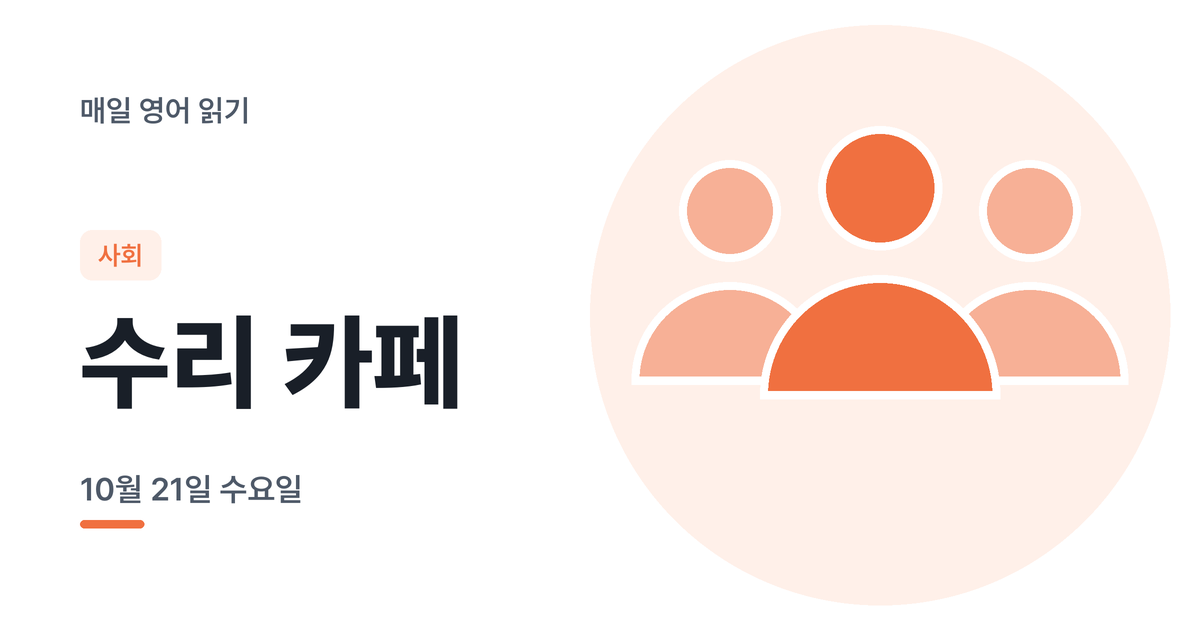
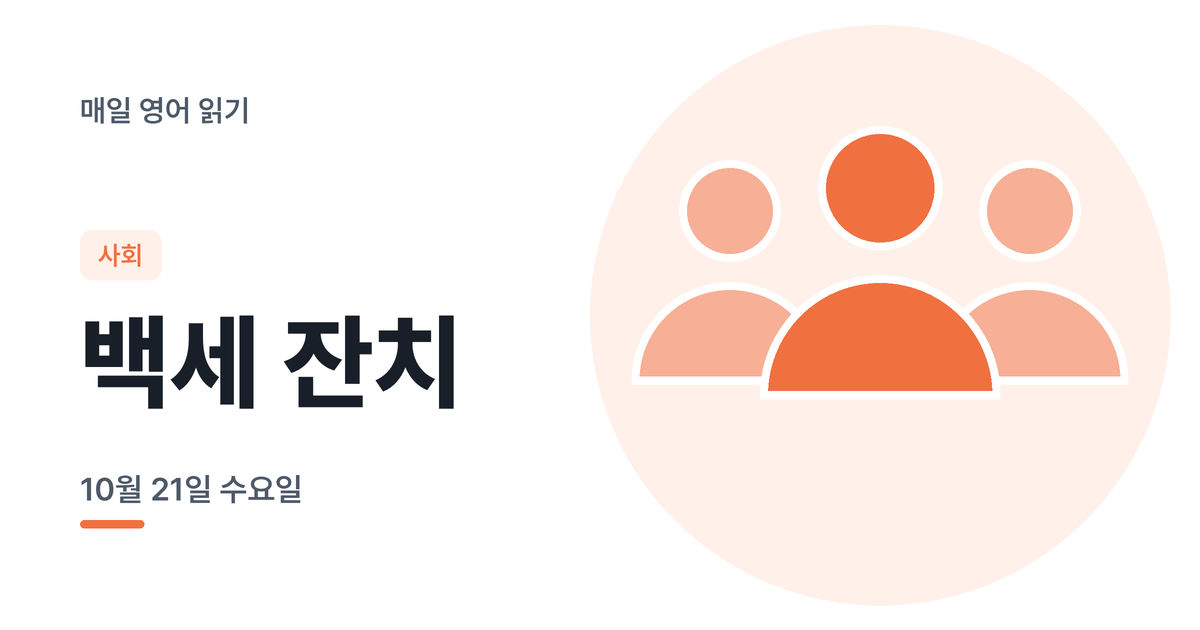
Publish en:2026-10-21

Changed region(s): [[0.0617, 0.4825, 0.4008, 0.6635]]

diff --git a/en/2026-10-21/index.html b/en/2026-10-21/index.html
@@ -9,7 +9,7 @@
 <meta name="description" content="B1~B2 학습자를 위한 하루 한 단락 영어 읽기. 문장별 음성, 주요 단어, 모범 해석.">
 <meta property="og:type" content="article">
 <meta property="og:site_name" content="매일 영어 읽기">
-<meta property="og:title" content="오늘은 수리 카페 이야기예요 | 매일 영어 읽기">
+<meta property="og:title" content="오늘은 백세 잔치 이야기예요 | 매일 영어 읽기">
 <meta property="og:description" content="B1~B2 학습자를 위한 하루 한 단락 영어 읽기. 문장별 음성, 주요 단어, 모범 해석.">
 <meta property="og:url" content="https://read.wspace.ai.kr/en/2026-10-21/">
 <meta property="og:image" content="https://read.wspace.ai.kr/en/2026-10-21/thumb.png">
@@ -176,7 +176,7 @@
   <div class="top">
     <img class="thumb" src="thumb.png" width="76" height="76" alt="">
     <div class="date">10월 21일 수요일</div>
-    <h1>오늘은 <em>수리 카페</em> 이야기예요</h1>
+    <h1>오늘은 <em>백세 잔치</em> 이야기예요</h1>
     <div class="chips">
       <span class="chip blue">6문장</span>
       <span class="chip">B1 위주</span>
@@ -195,14 +195,14 @@
       <button class="tool" id="copy" type="button"><svg viewBox="0 0 20 20" fill="none" stroke="currentColor" stroke-width="1.8" stroke-linecap="round" stroke-linejoin="round"><rect x="7" y="7" width="9.5" height="9.5" rx="2"/><path d="M4.5 13V5.5a2 2 0 0 1 2-2H13"/></svg><span>지문 복사</span></button>
       <button class="tool" id="kobtn" type="button" aria-pressed="false">해석 보기</button>
     </div>
-    <div class="sent"><button class="no" type="button" data-i="0" aria-label="1번 문장 듣기">1</button><div class="say"><div class="en">On Saturday morning, people in Charleston carried <b>broken</b> lamps, stopped clocks, and noisy fans into one busy room.</div><div class="ko" hidden>토요일 아침, 찰스턴 사람들이 고장 난 램프, 멈춘 시계, 시끄러운 선풍기를 들고 북적이는 한 방으로 들어왔다.</div></div></div>
-    <div class="sent"><button class="no" type="button" data-i="1" aria-label="2번 문장 듣기">2</button><div class="say"><div class="en">They had come to the city's first Repair Cafe, where <b>volunteers</b> fix everyday things for free.</div><div class="ko" hidden>그들은 그 도시의 첫 번째 수리 카페에 온 것이었는데, 그곳에서는 자원봉사자들이 일상 물건을 무료로 고쳐 준다.</div></div></div>
-    <div class="sent"><button class="no" type="button" data-i="2" aria-label="3번 문장 듣기">3</button><div class="say"><div class="en">The event was started by a <b>retired</b> architect, who got the idea from a <b>similar</b> cafe in another city.</div><div class="ko" hidden>이 행사는 한 은퇴한 건축가가 시작했는데, 그는 다른 도시의 비슷한 카페에서 이 아이디어를 얻었다.</div></div></div>
-    <div class="sent"><button class="no" type="button" data-i="3" aria-label="4번 문장 듣기">4</button><div class="say"><div class="en">One woman's fan, which she needs to sleep at night, was fixed in about ten minutes.</div><div class="ko" hidden>밤에 잠을 자려면 필요한 한 여성의 선풍기는 약 10분 만에 고쳐졌다.</div></div></div>
-    <div class="sent"><button class="no" type="button" data-i="4" aria-label="5번 문장 듣기">5</button><div class="say"><div class="en">A robot vacuum that someone had bought at a yard sale for twenty dollars was brought back to life, and the organizer said it is now <b>worth</b> about nine hundred dollars.<span class="badge">B2</span></div><div class="ko" hidden>누군가 중고 물품 판매(야드 세일)에서 20달러에 산 로봇 청소기가 다시 살아났고, 주최자는 그것이 이제 약 900달러의 가치가 있다고 말했다.</div></div></div>
-    <div class="sent"><button class="no" type="button" data-i="5" aria-label="6번 문장 듣기">6</button><div class="say"><div class="en">By the end of the day, more than sixty items had been <b>repaired</b>, and the group plans to hold the event every other month to <b>reduce</b> waste and help people save money.</div><div class="ko" hidden>그날이 끝날 무렵까지 60개가 넘는 물건이 수리되었고, 그 모임은 쓰레기를 줄이고 사람들이 돈을 아끼도록 돕기 위해 두 달에 한 번 이 행사를 열 계획이다.</div></div></div>
+    <div class="sent"><button class="no" type="button" data-i="0" aria-label="1번 문장 듣기">1</button><div class="say"><div class="en">On Monday afternoon, the senior center in the town of Brookline held a <b>special</b> party called the "Party of a Century."</div><div class="ko" hidden>월요일 오후, 브루클라인이라는 마을의 노인 센터가 '한 세기 파티'라는 특별한 파티를 열었다.</div></div></div>
+    <div class="sent"><button class="no" type="button" data-i="1" aria-label="2번 문장 듣기">2</button><div class="say"><div class="en">The event program named twenty-seven <b>residents</b> who are one hundred or older, although many of them were not able to come.</div><div class="ko" hidden>행사 안내문에는 100세 이상인 주민 27명의 이름이 실려 있었지만, 그중 많은 분은 올 수 없었다.</div></div></div>
+    <div class="sent"><button class="no" type="button" data-i="2" aria-label="3번 문장 듣기">3</button><div class="say"><div class="en">The five who did come each received a <b>certificate</b>, and the whole room sang "Happy Birthday" to them.</div><div class="ko" hidden>실제로 온 다섯 분은 각자 증서를 받았고, 방 안의 모두가 그분들께 '생일 축하' 노래를 불러 드렸다.</div></div></div>
+    <div class="sent"><button class="no" type="button" data-i="3" aria-label="4번 문장 듣기">4</button><div class="say"><div class="en">The party brought back an old <b>tradition</b> from 1909, when a newspaper owner sent canes with gold tops to about seven hundred towns in New England so that each town could give one to its oldest man.<span class="badge">B2</span></div><div class="ko" hidden>이 파티는 1909년의 오래된 전통을 되살린 것인데, 그해 한 신문사 사주가 뉴잉글랜드의 약 700개 마을에 금빛 손잡이가 달린 지팡이를 보내 각 마을이 가장 나이 많은 남성에게 하나씩 줄 수 있도록 했다.</div></div></div>
+    <div class="sent"><button class="no" type="button" data-i="4" aria-label="5번 문장 듣기">5</button><div class="say"><div class="en">Because the town has not yet found out who its oldest person is, a <b>copy</b> of the cane was passed from hand to hand among the guests.</div><div class="ko" hidden>마을이 아직 가장 나이 많은 사람이 누구인지 알아내지 못했기 때문에, 지팡이의 복제품이 손님들 사이에서 손에서 손으로 전해졌다.</div></div></div>
+    <div class="sent"><button class="no" type="button" data-i="5" aria-label="6번 문장 듣기">6</button><div class="say"><div class="en">Francis DiMento, who is 99 and still works on cases as a lawyer, shared some simple <b>advice</b>: look both ways even on one-way streets, and drink lots of milk.</div><div class="ko" hidden>99세이며 지금도 변호사로 사건을 맡고 있는 프랜시스 디멘토는 간단한 조언을 건넸다. 일방통행 길에서도 양쪽을 살피고, 우유를 많이 마시라는 것이었다.</div></div></div>
     <p class="hint"><span id="hinttext">문장 번호를 누르면 그 문장만 들려요. 해석은 먼저 읽어 본 다음에 켜 보세요.</span></p>
-    <p class="src">출처: <a href="https://www.live5news.com/2026/10/17/repair-cafe-holds-first-charleston-event-mission-given-broken-household-items-second-life/" target="_blank" rel="noopener">Repair Cafe holds first Charleston event on mission to give broken household items a second life (Live 5 News, 2026-10-17)</a></p>
+    <p class="src">출처: <a href="https://www.boston.com/community/events/2026/10/20/brookline-celebrates-its-centenarians-at-party-of-a-century/" target="_blank" rel="noopener">Brookline celebrates its centenarians at 'Party of a Century' (Boston.com, 2026-10-20)</a></p>
     <div class="mine">
       <label for="mine">내 해석</label>
       <textarea id="mine" placeholder="1. &#10;2. &#10;3. &#10;4. &#10;5. &#10;6. " spellcheck="false"></textarea>
@@ -214,25 +214,24 @@
   <section class="card">
     <div class="step" id="step-words">STEP 2</div>
     <h2>주요 단어</h2>
-    <div class="word"><span class="w">broken</span><span class="m">고장 난, 깨진</span></div>
-    <div class="word"><span class="w">volunteers</span><span class="m">자원봉사자들 (volunteer의 복수)</span></div>
-    <div class="word"><span class="w">retired</span><span class="m">은퇴한</span></div>
-    <div class="word"><span class="w">similar</span><span class="m">비슷한</span></div>
-    <div class="word"><span class="w">worth</span><span class="m">~의 가치가 있는</span></div>
-    <div class="word"><span class="w">repaired</span><span class="m">수리된 (repair의 과거분사)</span></div>
-    <div class="word"><span class="w">reduce</span><span class="m">줄이다</span></div>
+    <div class="word"><span class="w">special</span><span class="m">특별한</span></div>
+    <div class="word"><span class="w">residents</span><span class="m">주민들 (resident의 복수)</span></div>
+    <div class="word"><span class="w">certificate</span><span class="m">증서, 증명서</span></div>
+    <div class="word"><span class="w">tradition</span><span class="m">전통</span></div>
+    <div class="word"><span class="w">copy</span><span class="m">복제품, 사본</span></div>
+    <div class="word"><span class="w">advice</span><span class="m">조언 (셀 수 없는 명사라 -s를 붙이지 않음)</span></div>
   </section>
 
   <section class="card">
     <div class="step" id="step-points">STEP 3</div>
     <h2>오늘의 체크 포인트</h2>
     <div class="point">
-      <strong>수동태 뒤의 행위자와 시간</strong>
-      <p>3번 <code>was started by a retired architect</code>는 '은퇴한 건축가가 시작했다'예요. by 뒤가 실제로 한 사람입니다. 4번 <code>was fixed in about ten minutes</code>는 끝의 <code>in about ten minutes</code>(약 10분 만에)까지 읽어야 문장이 완성돼요. 6번 <code>By the end of the day</code>(그날이 끝날 무렵까지)와 <code>every other month</code>(두 달에 한 번)도 놓치지 마세요.</p>
+      <strong>although, because가 이끄는 절</strong>
+      <p>2번 <code>although many of them were not able to come</code>은 '그중 많은 분이 오지 못했지만'이에요. 앞의 27명이라는 숫자와 대조돼요. 5번은 <code>Because</code>로 시작하는 이유 부분이 먼저 나오고, 쉼표 뒤 <code>a copy of the cane was passed</code>가 실제로 일어난 일이에요. 이유와 결과를 나눠서 읽어 보세요.</p>
     </div>
     <div class="point">
-      <strong>숫자 크기 그려 보기</strong>
-      <p>5번은 <code>twenty dollars</code>(20달러)에 산 물건이 <code>nine hundred dollars</code>(900달러) 가치가 됐다는 대비예요. 두 숫자를 머릿속에 나란히 놓아 보세요. 6번 <code>more than sixty items</code>는 '60개가 넘는 물건'이에요. 여기서 more than은 '~보다 많은'이고, <code>items</code>의 복수 -s도 함께 챙기세요.</p>
+      <strong>when이 붙은 긴 B2 문장</strong>
+      <p>4번은 <code>an old tradition from 1909</code>까지 읽고 끊은 뒤, <code>when a newspaper owner sent ...</code>가 1909년에 있었던 일을 덧붙이는 구조로 보면 돼요. 끝의 <code>so that each town could give one to its oldest man</code>은 '각 마을이 가장 나이 많은 남성에게 하나씩 줄 수 있도록'이라는 목적이에요. <code>about seven hundred towns</code>(약 700개 마을)의 숫자도 챙기세요.</p>
     </div>
   </section>
 
@@ -249,20 +248,20 @@
       <svg viewBox="0 0 20 20" fill="none" stroke="currentColor" stroke-width="2" stroke-linecap="round" stroke-linejoin="round"><path d="M5 7.5l5 5 5-5"/></svg>
     </summary>
     <div class="body">
-      <div class="adv"><div class="w">inaugural</div><div class="m">첫 번째의, 개최 기념의</div>
-        <div class="ex">The group held its <b>inaugural</b> repair event on Saturday.</div></div>
-      <div class="adv"><div class="w">restore</div><div class="m">(원래 상태로) 되살리다, 복원하다</div>
-        <div class="ex">A volunteer <b>restored</b> the cheap robot vacuum to working order.</div></div>
-      <div class="adv"><div class="w">salvage</div><div class="m">(버려질 것을) 건져 내다, 살리다</div>
-        <div class="ex">The volunteers <b>salvaged</b> more than sixty items in one day.</div></div>
-      <div class="adv"><div class="w">discard</div><div class="m">버리다, 폐기하다<span class="warn">disregard(무시하다)와 혼동 주의</span></div>
-        <div class="ex">Many people <b>discard</b> broken lamps instead of fixing them.</div></div>
-      <div class="adv"><div class="w">appliance</div><div class="m">가전제품<span class="warn">application(신청, 앱)과 혼동 주의</span></div>
-        <div class="ex">Residents brought fans and other small <b>appliances</b> to the cafe.</div></div>
-      <div class="adv"><div class="w">landfill</div><div class="m">쓰레기 매립지</div>
-        <div class="ex">Repairing old things keeps them out of the <b>landfill</b>.</div></div>
-      <div class="adv"><div class="w">bimonthly</div><div class="m">두 달에 한 번의, 격월의<span class="warn">biweekly(2주에 한 번의)와 혼동 주의</span></div>
-        <div class="ex">The group plans to hold <b>bimonthly</b> events at the library.</div></div>
+      <div class="adv"><div class="w">centenarian</div><div class="m">100세 이상인 사람<span class="warn">centennial(100주년)과 혼동 주의</span></div>
+        <div class="ex">The town honored five <b>centenarians</b> at the party.</div></div>
+      <div class="adv"><div class="w">commemorate</div><div class="m">기념하다</div>
+        <div class="ex">The senior center held a party to <b>commemorate</b> a century of life.</div></div>
+      <div class="adv"><div class="w">revive</div><div class="m">되살리다, 부활시키다<span class="warn">review(검토하다)와 혼동 주의</span></div>
+        <div class="ex">The event <b>revived</b> a tradition that began in 1909.</div></div>
+      <div class="adv"><div class="w">replica</div><div class="m">복제품, 모형<span class="warn">reply(대답)와 혼동 주의</span></div>
+        <div class="ex">A <b>replica</b> of the gold-topped cane was passed around the room.</div></div>
+      <div class="adv"><div class="w">honoree</div><div class="m">(행사에서) 영예를 받는 사람</div>
+        <div class="ex">Each <b>honoree</b> who came received a certificate.</div></div>
+      <div class="adv"><div class="w">longevity</div><div class="m">장수, 오래 삶</div>
+        <div class="ex">The party celebrated the <b>longevity</b> of the town's oldest residents.</div></div>
+      <div class="adv"><div class="w">identify</div><div class="m">(누구인지) 확인하다, 알아내다</div>
+        <div class="ex">The town has not yet <b>identified</b> its oldest resident.</div></div>
     </div>
   </details>
   <section class="card sub" id="subscribe">

diff --git a/en/archive/index.html b/en/archive/index.html
@@ -75,7 +75,7 @@
   <section class="month">
     <h2>2026년 10월</h2>
     <div class="card">
-      <a class="item" href="../2026-10-21/" data-cat="society" data-q="수리 카페 사회 broken 고장 난, 깨진 volunteers 자원봉사자들 (volunteer의 복수) retired 은퇴한 similar 비슷한 worth ~의 가치가 있는 repaired 수리된 (repair의 과거분사) reduce 줄이다"><img src="../2026-10-21/thumb.png" width="56" height="56" alt="" loading="lazy"><span><span class="d">10월 21일 수요일<span class="c">사회</span></span><span class="t">수리 카페</span></span></a>
+      <a class="item" href="../2026-10-21/" data-cat="society" data-q="백세 잔치 사회 special 특별한 residents 주민들 (resident의 복수) certificate 증서, 증명서 tradition 전통 copy 복제품, 사본 advice 조언 (셀 수 없는 명사라 -s를 붙이지 않음)"><img src="../2026-10-21/thumb.png" width="56" height="56" alt="" loading="lazy"><span><span class="d">10월 21일 수요일<span class="c">사회</span></span><span class="t">백세 잔치</span></span></a>
       <a class="item" href="../2026-10-20/" data-cat="tech" data-q="눈 깜빡임 안경 기술 materials 재료, 물질들 (material의 복수) charge 전하, (전기의) 충전량 flexible 잘 휘는, 유연한 sensors 센서들, 감지기들 (sensor의 복수) steady 꾸준한, 끊이지 않는 pattern 패턴, 일정한 모양 identified 알아냈다, 식별했다 (identify의 과거형)"><img src="../2026-10-20/thumb.png" width="56" height="56" alt="" loading="lazy"><span><span class="d">10월 20일 화요일<span class="c">기술</span></span><span class="t">눈 깜빡임 안경</span></span></a>
       <a class="item" href="../2026-10-19/" data-cat="science" data-q="쏙독새 날개 과학 nightjar 쏙독새 (밤에 사냥하는 새) designed 만들어진, 설계된 recorded 기록했다, 촬영했다 tips 끝부분들 (tip의 복수) efficient 효율적인 thrust 추진력, 앞으로 미는 힘 findings 연구 결과 (보통 복수로 씀)"><img src="../2026-10-19/thumb.png" width="56" height="56" alt="" loading="lazy"><span><span class="d">10월 19일 월요일<span class="c">과학</span></span><span class="t">쏙독새 날개</span></span></a>
       <a class="item" href="../2026-10-18/" data-cat="space" data-q="부푼 행성 우주 astronomers 천문학자들 (복수 -s) faces ~을 향하다 (face의 3인칭 단수) edges 가장자리들 (edge의 복수) stretches 뻗어 나가다, 늘어나다 probably 아마도 bulge 불룩한 부분, 부풂 method 방법"><img src="../2026-10-18/thumb.png" width="56" height="56" alt="" loading="lazy"><span><span class="d">10월 18일 일요일<span class="c">우주</span></span><span class="t">부푼 행성</span></span></a>

diff --git a/en/index.html b/en/index.html
@@ -75,7 +75,7 @@
   <section class="month">
     <h2>2026년 10월</h2>
     <div class="card">
-      <a class="item" href="./2026-10-21/" data-cat="society" data-q="수리 카페 사회 broken 고장 난, 깨진 volunteers 자원봉사자들 (volunteer의 복수) retired 은퇴한 similar 비슷한 worth ~의 가치가 있는 repaired 수리된 (repair의 과거분사) reduce 줄이다"><img src="./2026-10-21/thumb.png" width="56" height="56" alt="" loading="lazy"><span><span class="d">10월 21일 수요일<span class="c">사회</span></span><span class="t">수리 카페</span></span></a>
+      <a class="item" href="./2026-10-21/" data-cat="society" data-q="백세 잔치 사회 special 특별한 residents 주민들 (resident의 복수) certificate 증서, 증명서 tradition 전통 copy 복제품, 사본 advice 조언 (셀 수 없는 명사라 -s를 붙이지 않음)"><img src="./2026-10-21/thumb.png" width="56" height="56" alt="" loading="lazy"><span><span class="d">10월 21일 수요일<span class="c">사회</span></span><span class="t">백세 잔치</span></span></a>
       <a class="item" href="./2026-10-20/" data-cat="tech" data-q="눈 깜빡임 안경 기술 materials 재료, 물질들 (material의 복수) charge 전하, (전기의) 충전량 flexible 잘 휘는, 유연한 sensors 센서들, 감지기들 (sensor의 복수) steady 꾸준한, 끊이지 않는 pattern 패턴, 일정한 모양 identified 알아냈다, 식별했다 (identify의 과거형)"><img src="./2026-10-20/thumb.png" width="56" height="56" alt="" loading="lazy"><span><span class="d">10월 20일 화요일<span class="c">기술</span></span><span class="t">눈 깜빡임 안경</span></span></a>
       <a class="item" href="./2026-10-19/" data-cat="science" data-q="쏙독새 날개 과학 nightjar 쏙독새 (밤에 사냥하는 새) designed 만들어진, 설계된 recorded 기록했다, 촬영했다 tips 끝부분들 (tip의 복수) efficient 효율적인 thrust 추진력, 앞으로 미는 힘 findings 연구 결과 (보통 복수로 씀)"><img src="./2026-10-19/thumb.png" width="56" height="56" alt="" loading="lazy"><span><span class="d">10월 19일 월요일<span class="c">과학</span></span><span class="t">쏙독새 날개</span></span></a>
       <a class="item" href="./2026-10-18/" data-cat="space" data-q="부푼 행성 우주 astronomers 천문학자들 (복수 -s) faces ~을 향하다 (face의 3인칭 단수) edges 가장자리들 (edge의 복수) stretches 뻗어 나가다, 늘어나다 probably 아마도 bulge 불룩한 부분, 부풂 method 방법"><img src="./2026-10-18/thumb.png" width="56" height="56" alt="" loading="lazy"><span><span class="d">10월 18일 일요일<span class="c">우주</span></span><span class="t">부푼 행성</span></span></a>
